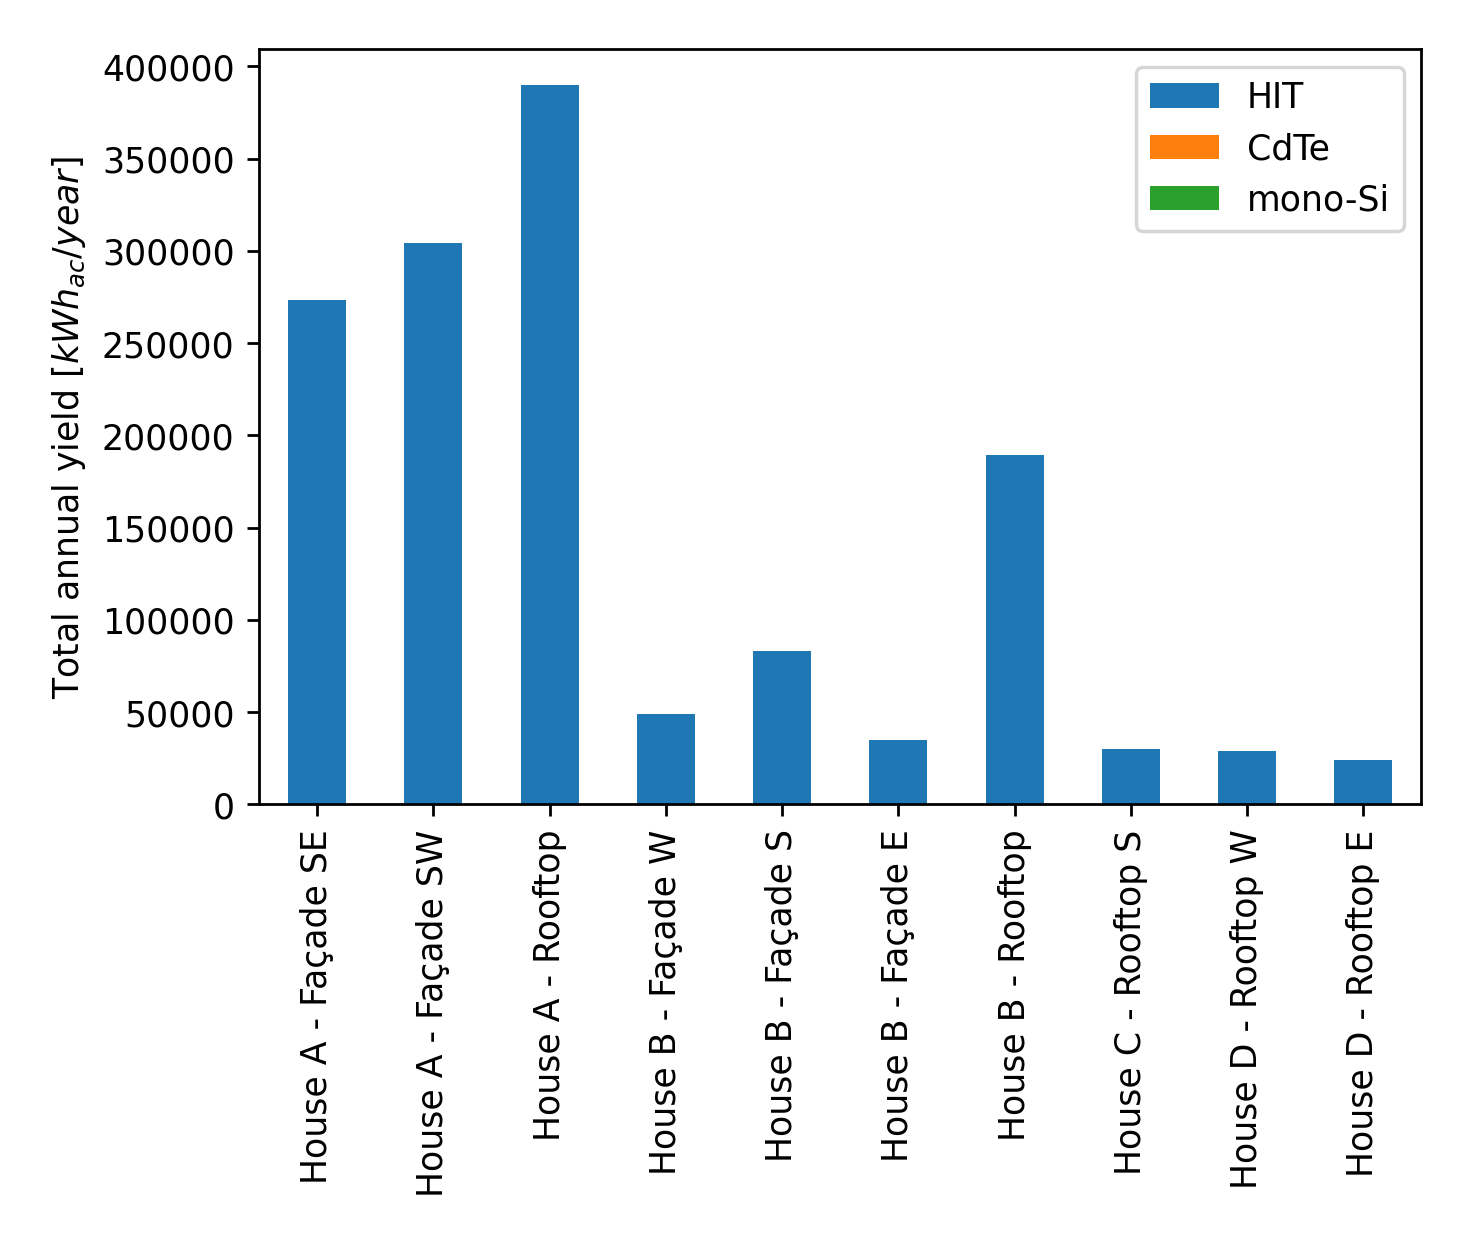
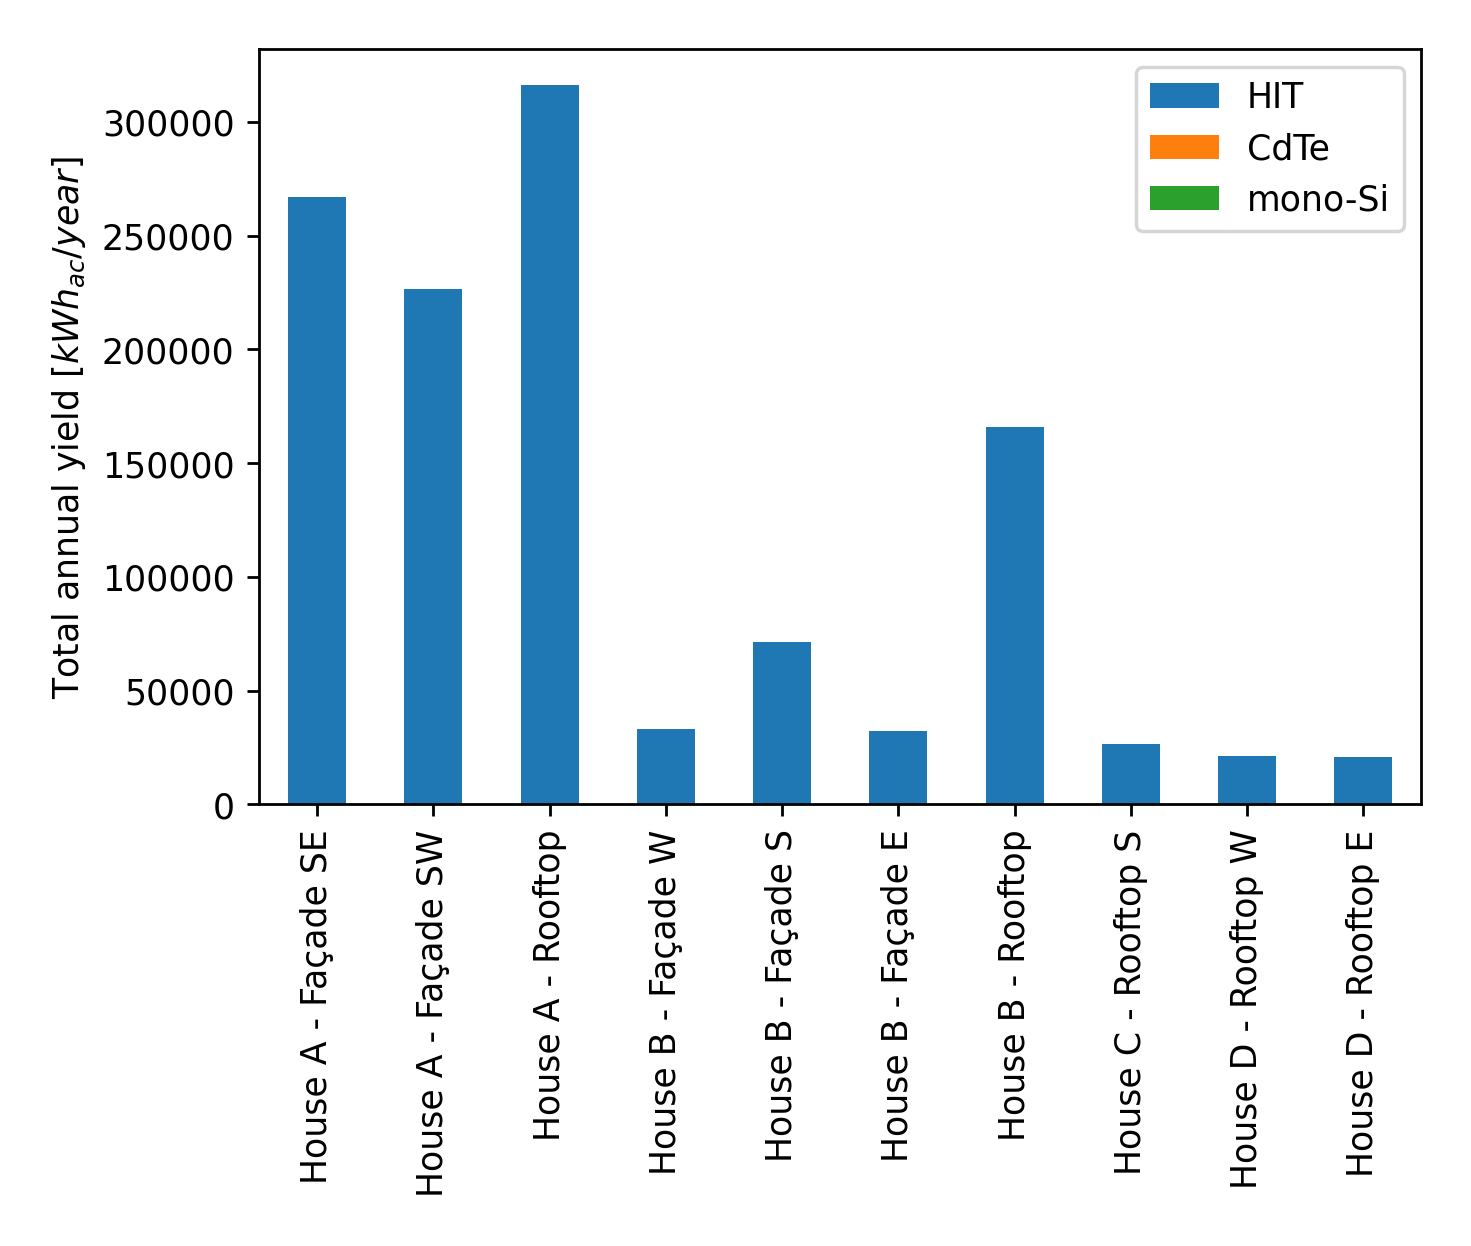
Convert the solar zenith to radians before calculating the DHI

diff --git a/output/question3/table_pv_systems.tex b/output/question3/table_pv_systems.tex
@@ -8,7 +8,7 @@ House A - Rooftop   &    House A - Rooftop &         HIT &         285600 &   30
 House B - Façade W  &   House B - Façade W &         HIT &          51360 &   90 &         270 \\
 House B - Façade S  &   House B - Façade S &         HIT &          85680 &   90 &         180 \\
 House B - Façade E  &   House B - Façade E &         HIT &          51360 &   90 &          90 \\
-House B - Rooftop   &    House B - Rooftop &         HIT &         142800 &   25 &         180 \\
+House B - Rooftop   &    House B - Rooftop &         HIT &         142800 &   35 &         180 \\
 House C - Rooftop S &  House C - Rooftop S &         HIT &          22800 &   40 &         180 \\
 House D - Rooftop W &  House D - Rooftop W &         HIT &          22800 &   40 &         270 \\
 House D - Rooftop E &  House D - Rooftop E &         HIT &          22800 &   40 &          90 \\

diff --git a/src/utils/knmi.py b/src/utils/knmi.py
@@ -58,5 +58,5 @@ def get_irradiance():
 
     # Get the DNI and DHI
     irradiance['DNI'] = pv.calculate_dni('dirindex', irradiance, latitude=latitude, longitude=longitude)
-    irradiance['DHI'] = irradiance.GHI - irradiance.DNI * irradiance.solar_zenith.apply(math.cos)
+    irradiance['DHI'] = irradiance.GHI - irradiance.DNI * irradiance.solar_zenith.apply(math.radians).apply(math.cos)
     return irradiance
